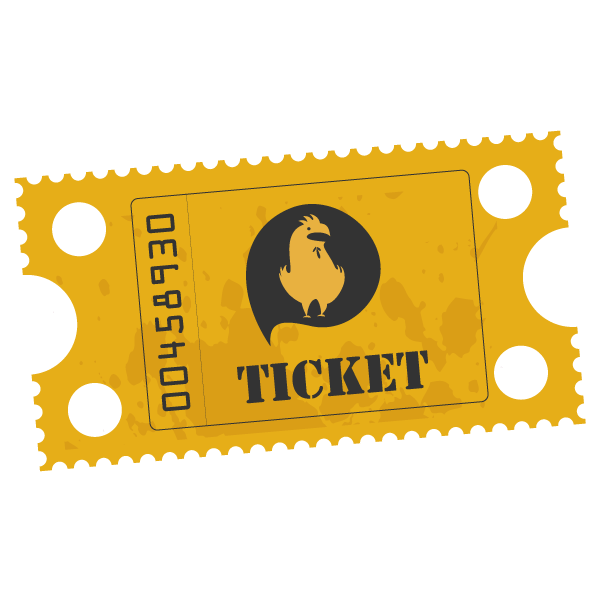
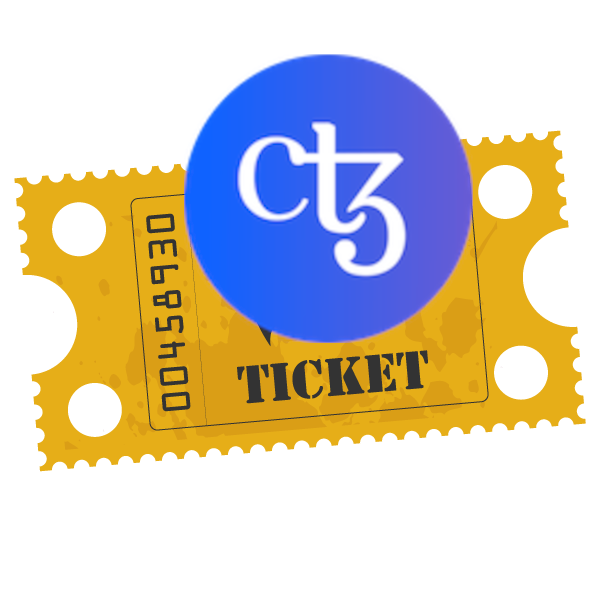
current work, fa1.2 deposit does not work well

Changed region(s): [[0.3, 0.09, 0.81, 0.57]]

diff --git a/portal/src/components/Deposit.tsx b/portal/src/components/Deposit.tsx
@@ -1,13 +1,13 @@
-import React, { Dispatch, SetStateAction, useState, useEffect, FormEvent, MouseEvent } from "react";
+import { Dispatch, SetStateAction, useState, useEffect, MouseEvent } from "react";
 import { TezosToolkit, WalletContract } from "@taquito/taquito";
 import { BeaconWallet } from "@taquito/beacon-wallet";
 import Button from "@mui/material/Button";
-import { Avatar, Backdrop, Box, Card, CardContent, CardHeader, CardMedia, Chip, CircularProgress, Divider, Grid, IconButton, ListItemIcon, Paper, Stack, StepIcon } from "@mui/material";
-import { AirplaneTicket, CameraRoll, MoreVert } from "@mui/icons-material";
+import { Avatar, Backdrop, Box, Card, CardContent, CardHeader, Chip, CircularProgress, Divider, Grid, IconButton, InputAdornment, Stack, TextField } from "@mui/material";
+import { AccountCircle, CameraRoll, MoreVert } from "@mui/icons-material";
 import { useSnackbar } from "notistack";
 import { TransactionInvalidBeaconError } from "./TransactionInvalidBeaconError";
-import { ContractXTZParameters } from "./ContractParameters";
-import { TicketToken } from "@taquito/michelson-encoder/dist/types/tokens/ticket";
+import { ContractFA12Parameters, ContractParameters, ContractXTZParameters } from "./ContractParameters";
+import { TezosTicket, TezosUtils, TOKEN_TYPE } from "./TezosUtils";
 
 type DepositProps = {
     Tezos: TezosToolkit;
@@ -28,22 +28,26 @@ const Deposit = ({
 }: DepositProps): JSX.Element => {
     
 
-    const [rollupInbox, setRollupInbox] = useState<Map<string,TicketToken>>(new Map<string,TicketToken>());
+    const [rollupInbox, setRollupInbox] = useState<Map<string,TezosTicket>>(new Map<string,TezosTicket>());
 
+    const [quantity, setQuantity]  = useState<number>(0);
+    const [l2Address, setL2Address]  = useState<string>("");
+    const [tokenType, setTokenType]  = useState<TOKEN_TYPE>(TOKEN_TYPE.XTZ);
 
     //TEZOS OPERATIONS
-    const [tezosLoading, setTezosLoading]  = React.useState(false);
+    const [tezosLoading, setTezosLoading]  = useState(false);
     
     // MESSAGES
     const { enqueueSnackbar } = useSnackbar();
 
+    const refreshRollupInbox = async() => {
+            let rollupContract : WalletContract = await Tezos.wallet.at(process.env["REACT_APP_ROLLUP_CONTRACT"]!);
+            let ticketMap = TezosUtils.convertTicketMapStorageToTicketMap(rollupContract);
+            setRollupInbox(ticketMap);
+    }
 
     useEffect(() => {
-        (async () => {
-            let rollupContract : WalletContract = await Tezos.wallet.at(process.env["REACT_APP_ROLLUP_CONTRACT"]!);
-            console.log(await rollupContract.storage());
-            setRollupInbox(await rollupContract.storage() as Map<string,TicketToken>);
-        })();
+        refreshRollupInbox();
       }, []);
     
     
@@ -55,26 +59,20 @@ const Deposit = ({
         let c : WalletContract = await Tezos.wallet.at(process.env["REACT_APP_CONTRACT"]!);
         
         try {
-            let param : ContractXTZParameters = new ContractXTZParameters('1',"tz1h5GajcQWq4ybaWuwSiYrR5PvmUxndm8T8",process.env["REACT_APP_ROLLUP_CONTRACT"]!)
-            //console.log(param);
-            console.log(c);
-            console.log(c.parameterSchema.ExtractSignatures());
-            let inspect = c.methods.deposit(
-                "xTZ_OP",
-                "1",
-                "tz1h5GajcQWq4ybaWuwSiYrR5PvmUxndm8T8",
+            let param : ContractParameters = tokenType == TOKEN_TYPE.XTZ ? new ContractXTZParameters(""+quantity,l2Address,process.env["REACT_APP_ROLLUP_CONTRACT"]!) : new ContractFA12Parameters(""+quantity,process.env["REACT_APP_CTEZ_CONTRACT"]!,l2Address,process.env["REACT_APP_ROLLUP_CONTRACT"]!)
+            //const op = await c.methods.deposit(...Object.values(param)).send(tokenType == TOKEN_TYPE.XTZ?{amount:quantity}:{});
+            
+
+            const op = await c.methods.deposit(
+                "fA12_OP",
+                ""+quantity,
+                process.env["REACT_APP_CTEZ_CONTRACT"]!,
+                l2Address,
                 process.env["REACT_APP_ROLLUP_CONTRACT"]!
-            ).toTransferParams(); 
-            console.log(JSON.stringify(inspect, null, 2))
-            
-            const op = await c.methods.deposit({
-                amountToTransfer: "1",
-                l2Address: "tz1h5GajcQWq4ybaWuwSiYrR5PvmUxndm8T8",
-                rollupAddress: process.env["REACT_APP_ROLLUP_CONTRACT"]!
-            }).send();
+            ).send(tokenType == TOKEN_TYPE.XTZ?{amount:quantity}:{});
             await op.confirmation();
-            
             enqueueSnackbar("Your deposit has been accepted (wait a bit the refresh)", {variant: "success", autoHideDuration:10000});
+            await refreshRollupInbox();
         } catch (error : any) {
             console.table(`Error: ${JSON.stringify(error, null, 2)}`);
             let tibe : TransactionInvalidBeaconError = new TransactionInvalidBeaconError(error);
@@ -108,12 +106,14 @@ const Deposit = ({
         <CardContent>
         <Stack spacing={1} direction="column"  divider={<Divider orientation="horizontal" flexItem />}>
         <Chip 
+        onClick={()=>{setTokenType(TOKEN_TYPE.XTZ);setQuantity(userBalance)}}
         sx={{width:"fit-content"}}
         avatar={<Avatar src="XTZ.png" />}
         label={userBalance/1000000}
         variant="outlined" 
         />
         <Chip 
+        onClick={()=>{setTokenType(TOKEN_TYPE.FA12);setQuantity(userCtezBalance)}}
         sx={{width:"fit-content"}}
         avatar={<Avatar src="CTEZ.png" />}
         label={userCtezBalance}
@@ -125,6 +125,33 @@ const Deposit = ({
         </Grid>
         
         <Grid item xs={12} md={2} >
+        <TextField
+        value={l2Address}
+        onChange={(e)=>setL2Address(e.target.value)}
+        label="L2 address"
+        InputProps={{
+          startAdornment: (
+            <InputAdornment position="start">
+              <AccountCircle />
+            </InputAdornment>
+          ),
+        }}
+        variant="standard"
+      />
+      <TextField
+      type="number"
+      onChange={(e)=>setQuantity(e.target.value?parseInt(e.target.value):0)}
+      value={quantity}
+        label="Quantity"
+        InputProps={{
+          startAdornment: (
+            <InputAdornment position="start">
+              <Avatar sx={{height:"24px", width:"24px"}} src={ tokenType == TOKEN_TYPE.XTZ ? "XTZ.png":"CTEZ.png"} />
+            </InputAdornment>
+          ),
+        }}
+        variant="standard"
+      />
         <Button variant="contained" onClick={(e)=>handleDeposit(e)}>DEPOSIT</Button>
         </Grid>
         
@@ -143,10 +170,11 @@ const Deposit = ({
         <CardContent>
         <Stack spacing={1} direction="column"  divider={<Divider orientation="horizontal" flexItem />}>
         {rollupInbox.size > 0 ? 
-            Array.from(rollupInbox.values()).map(ticket => <Chip 
+            Array.from(rollupInbox.entries()).map(([key,ticket],index) => <Chip 
+            key={index}
             sx={{width:"fit-content"}}
-            avatar={<Avatar src="XTZ-ticket.png" />}
-            label={`${ticket.tokenVal} for tz4XXXXXXXXXXXXXXXX`}
+            avatar={ticket.value=="Unit"?<Avatar src="XTZ-ticket.png"/> : <Avatar src="CTEZ-ticket.png"/>}
+            label={`${ticket.amount} for ${key}`}
             variant="outlined" 
             />
             ) 

diff --git a/portal/src/components/TezosUtils.ts b/portal/src/components/TezosUtils.ts
@@ -1,0 +1,85 @@
+import { TicketToken } from "@taquito/michelson-encoder/dist/types/tokens/ticket"
+import { WalletContract } from "@taquito/taquito";
+import {unpackData} from "@taquito/michel-codec";
+
+export class TOKEN_TYPE {
+  public static readonly XTZ = new TOKEN_TYPE("Unit");
+  public static FA12 = new TOKEN_TYPE("FA12", "ticketer address");
+  
+  constructor(public readonly name: string, public readonly address?: string) {
+  }
+}
+
+export interface MichelsonV1ExpressionBase {
+  int?: string;
+  string?: string;
+  bytes?: string;
+}
+export interface MichelsonV1ExpressionExtended {
+  prim: string;
+  args?: MichelsonV1Expression[];
+  annots?: string[];
+}
+export declare type MichelsonV1Expression = MichelsonV1ExpressionBase | MichelsonV1ExpressionExtended | MichelsonV1Expression[];
+
+
+export interface MichelsonV1ExpressionExtended {
+  prim: string;
+  args?: MichelsonV1Expression[];
+  annots?: string[];
+}
+
+export class TezosTicket {
+  ticketer: TOKEN_TYPE;
+  value: string;
+  amount: number ;
+  
+  constructor(ticketer: TOKEN_TYPE,
+    value: string,
+    amount: number){
+      this.ticketer =ticketer ;
+      this.value =value ;
+      this.amount =amount ;
+    }
+  }
+  
+  export declare type MichelsonData = IntLiteral | StringLiteral | BytesLiteral | any;
+/**
+ * An AST node representing Michelson string literal.
+ */
+ export interface StringLiteral extends Node {
+  string: string;
+}
+/**
+* An AST node representing Michelson int literal.
+*/
+export interface IntLiteral<T extends string = string> extends Node {
+  int: T;
+}
+/**
+* An AST node representing Michelson bytes literal.
+*/
+export interface BytesLiteral extends Node {
+  bytes: string;
+}
+  
+  export abstract class TezosUtils{
+    
+    static convertTicketMapStorageToTicketMap( walletContract : WalletContract) : Map<string,TezosTicket>{
+      let ticketMap = new Map<string,TezosTicket>();
+      Array.from(walletContract.script.storage as MichelsonV1ExpressionExtended[]).forEach(item => {
+        let key :string = (item.args![0] as MichelsonV1ExpressionBase).string! ;
+        let valueMichelsonV1ExpressionExtended : MichelsonV1ExpressionExtended = (item.args![1] as MichelsonV1ExpressionExtended);
+        let bytesArray : number[] = ((valueMichelsonV1ExpressionExtended.args![1] as MichelsonV1ExpressionBase).bytes!)
+        .match(/.{1,2}/g)!
+        .map(byte => parseInt("0x"+byte) );
+        let value : MichelsonData = unpackData(bytesArray);
+        let tokenTypeStr = (valueMichelsonV1ExpressionExtended.args![0] as MichelsonV1ExpressionBase).string!;
+        let tokentype : TOKEN_TYPE = tokenTypeStr == TOKEN_TYPE.XTZ.name ? TOKEN_TYPE.XTZ : new TOKEN_TYPE(TOKEN_TYPE.FA12.name,tokenTypeStr);
+        let tezosTicket : TezosTicket = new TezosTicket(tokentype ,  (value.args![0] as MichelsonV1ExpressionExtended).prim , Number.parseInt((valueMichelsonV1ExpressionExtended.args![2] as MichelsonV1ExpressionBase).int!))  ;
+        ticketMap.set(key, tezosTicket);
+      });
+      return ticketMap;
+    }
+    
+  }

diff --git a/portal/src/components/ContractParameters.ts b/portal/src/components/ContractParameters.ts
@@ -1,32 +1,41 @@
 export abstract class ContractParameters{
+}
+
+//field order is different and important for taquito
+export class ContractXTZParameters extends ContractParameters {
+    type:string;
     amountToTransfer: string; //represent a nat
     l2Address: string;
     rollupAddress: string;
-
     constructor(amountToTransfer: string,
         l2Address: string,
         rollupAddress: string){
+            super();
+            this.type="xTZ_OP";
             this.amountToTransfer=amountToTransfer;
             this.l2Address=l2Address;
             this.rollupAddress=rollupAddress;
         }
 }
 
-export class ContractXTZParameters extends ContractParameters {
-    constructor(amountToTransfer: string,
-        l2Address: string,
-        rollupAddress: string){
-            super(amountToTransfer,l2Address,rollupAddress);
-        }
-}
-
+//field order is different and important for taquito
 export class ContractFA12Parameters extends ContractParameters {
+    type:string;
+    amountToTransfer: string; //represent a nat
     fa12Address: string;
-    constructor(amountToTransfer: string,
+    l2Address: string;
+    rollupAddress: string;
+    constructor(
+        amountToTransfer: string,
+        fa12Address: string,
         l2Address: string,
         rollupAddress: string,
-        fa12Address: string){
-            super(amountToTransfer,l2Address,rollupAddress);
+        ){
+            super();
+            this.type="fA12_OP";
+            this.amountToTransfer=amountToTransfer;
+            this.l2Address=l2Address;
+            this.rollupAddress=rollupAddress;
             this.fa12Address=fa12Address;
         }
 }
